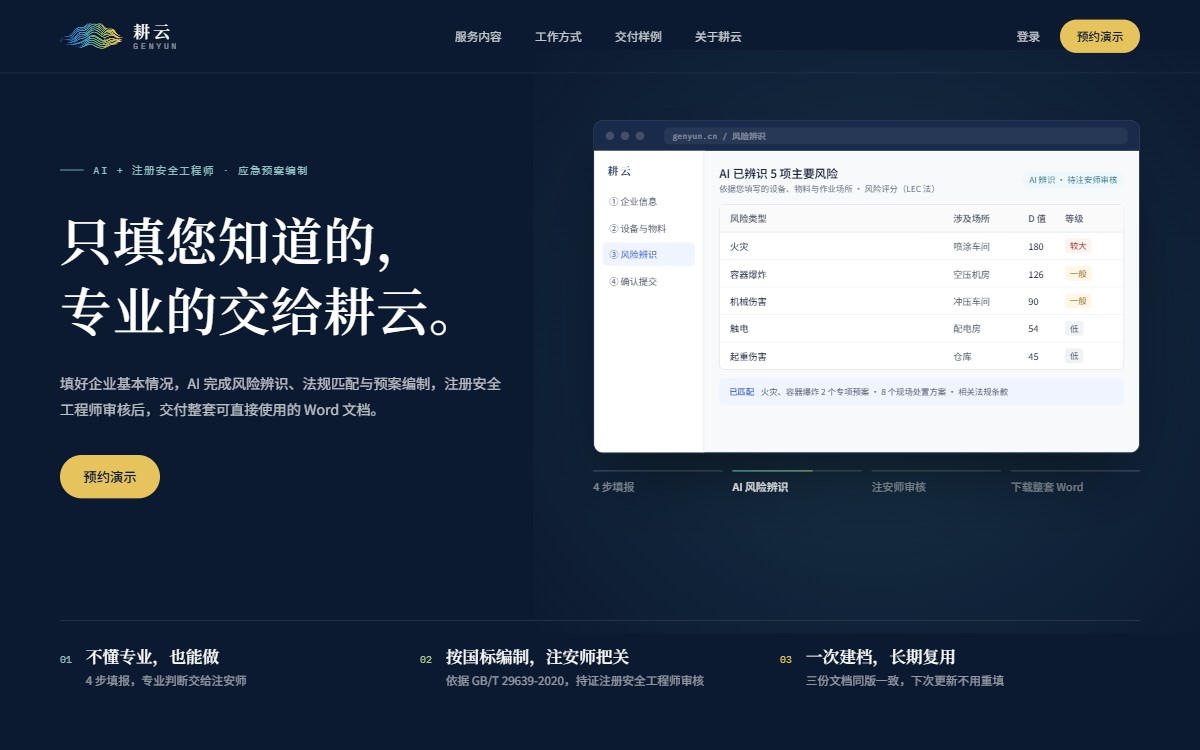
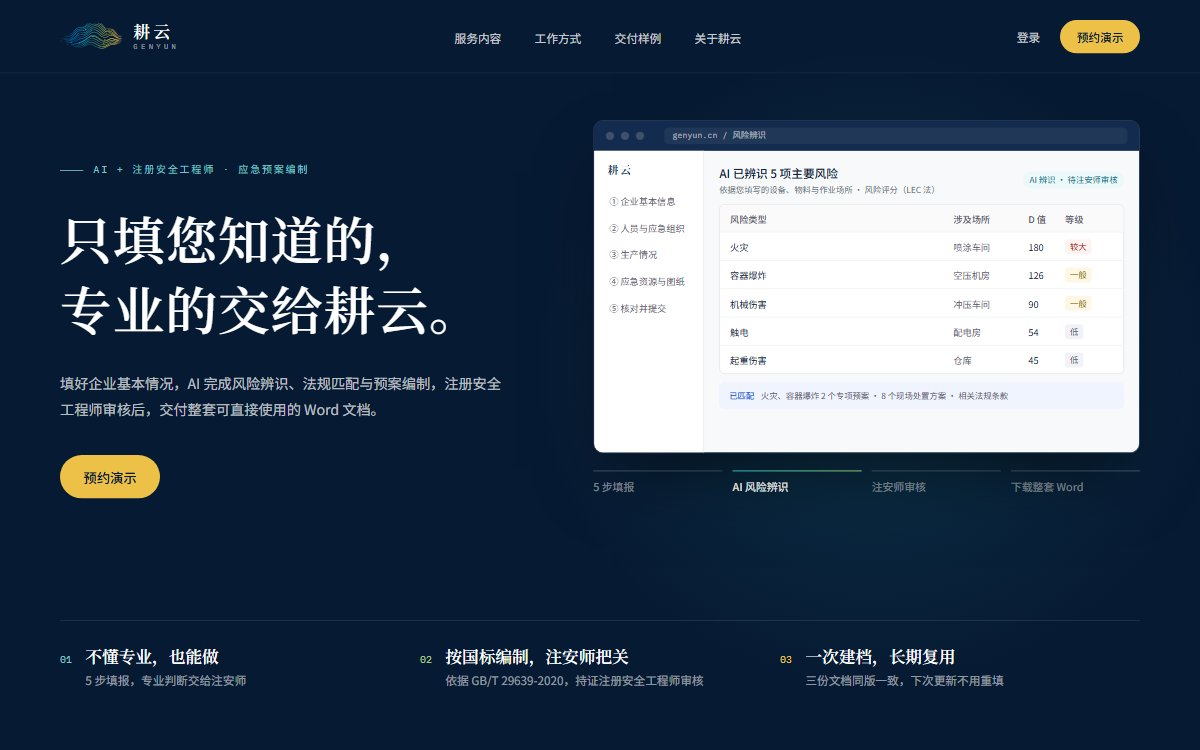
fix(site): 按设计复核改回 5 步、统一危险源用词
- 轮播第一个标签、事实条、适用对象、四步都改回「5 步」；产品界面侧栏换成产品里真实的填报 5 步，只有填报一屏高亮
- 风险评估报告目录、审核项、追溯示例用「危险源」；「风险辨识」只作 AI 步骤名
- 「手机上可长按识别」只在触屏或窄屏显示；安全台账卡片不再剩孤字
- 分享图改为从首页首屏截取
- DESIGN-DIFF、PROGRESS 补说明

diff --git a/e2e/site.spec.ts b/e2e/site.spec.ts
@@ -144,7 +144,7 @@ test.describe('官网首页', () => {
     await page.mouse.move(5, 880);
     await page.locator('h1').click();
     await page.waitForTimeout(6500);
-    await expect(pressed(page)).toHaveText('4 步填报');
+    await expect(pressed(page)).toHaveText('5 步填报');
   });
 
   test('入场动画结束后内容全部可见；自动播放只转一轮，停回第二屏', async ({ page }) => {
@@ -154,7 +154,7 @@ test.describe('官网首页', () => {
     await expect(page.getByRole('heading', { level: 1 })).toHaveCSS('opacity', '1');
     await expect(page.locator('html')).not.toHaveClass(/js-enter/);
     await expect(pressed(page)).toHaveText('AI 风险辨识');
-    for (const label of ['注安师审核', '下载整套 Word', '4 步填报', 'AI 风险辨识']) {
+    for (const label of ['注安师审核', '下载整套 Word', '5 步填报', 'AI 风险辨识']) {
       await expect(pressed(page)).toHaveText(label, { timeout: 9000 });
     }
     await page.waitForTimeout(7000);

diff --git a/apps/site/src/styles/global.css b/apps/site/src/styles/global.css
@@ -263,6 +263,11 @@ svg {
   font-variant-numeric: tabular-nums;
 }
 
+/* 一小段词不拆行，避免段落最后一行只剩一两个字 */
+.nobr {
+  white-space: nowrap;
+}
+
 .pill {
   display: inline-flex;
   align-items: center;

diff --git a/docs/PROGRESS.md b/docs/PROGRESS.md
@@ -276,6 +276,8 @@ C 线，与 M2、M3 并行；一项一个合并请求，分支名用 `m4-<序号
 
 - 官网是独立的静态站（`apps/site`），不进业务应用的容器；登录链接默认 `/login`，可用 `PUBLIC_APP_LOGIN_URL` 改。第 2 项 Caddy 要让 `/` 和官网各页走静态文件，`/login` 等走业务应用
 - 字体：`npm run build -w @genyun/site` 会先跑 `scripts/subset-fonts.mjs`，按页面里出现的字裁剪 Noto Serif SC / Noto Sans SC / IBM Plex Mono，输出到 `public/fonts`，对应的 @font-face 生成在 `src/styles/fonts.generated.css`（都不进 git；`typecheck` 也会先跑它）。改了文案要重新构建，否则新字会用系统字体；字体里找不到的字会让构建失败
+  - 注意：裁剪脚本读的是源码全文，注释也算。源码里（包括注释）写了字体里没有的符号（比如 ⑥ 以后的圈号、emoji），官网构建会直接失败，要么换掉符号，要么在脚本里补字体来源
+- 对比度：浏览器测试 `site.spec` 会逐个文字元素检查对比度 ≥ 4.5:1，但它只按纯色背景算，不看渐变和图片背景。Hero（深色渐变上的字）、产品界面示意、分享图这类位置改了颜色要人工看一眼
 - 截图：`npm run preview -w @genyun/site` 后跑 `node apps/site/scripts/screenshots.mjs`，输出到 `out/site/`
 - 待 Martin 定的见 DESIGN-DIFF「M4 第 1a 项」
 
